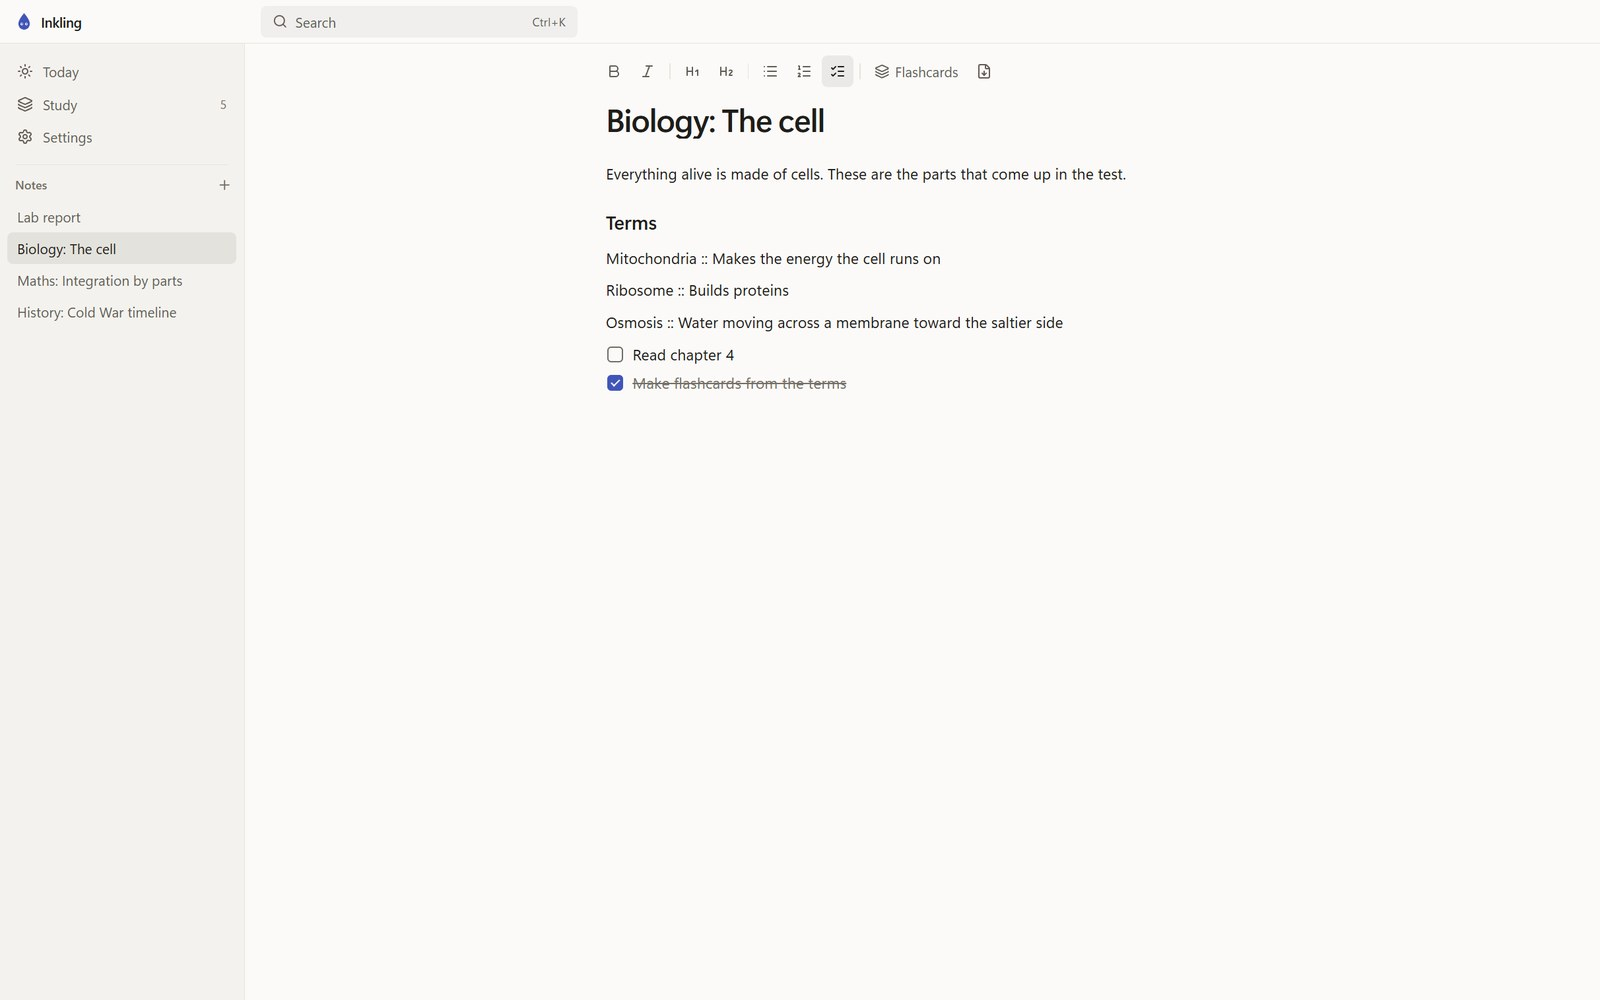
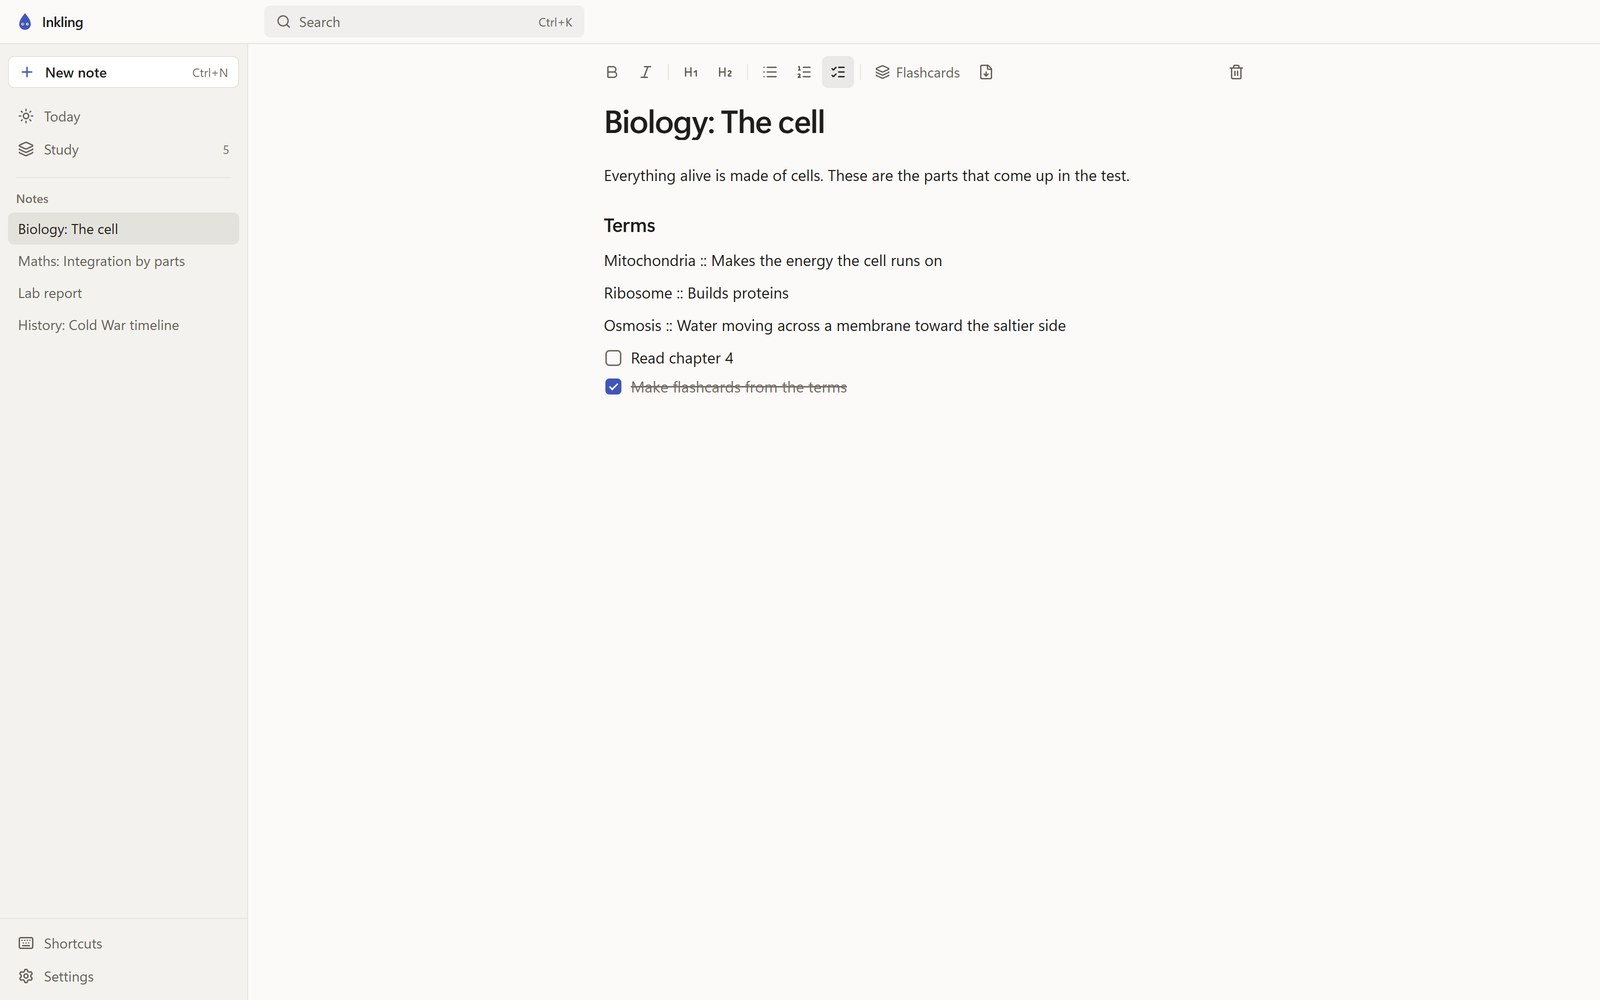
Show Inkling's new sidebar

diff --git a/src/constants/projects/inkling.ts b/src/constants/projects/inkling.ts
@@ -68,7 +68,7 @@ const en: LocalizedContent = {
     {
       heading: "A redesign that mostly took things out",
       body: [
-        "With v0.8.0 Inkling became a calmer app built around notes. The Tasks tab, Grades, Progress, the focus timer, the streak, the deck import and every setting except the theme went. To-dos from the old Tasks tab moved into a note of their own, and no note, card or review was lost. What is left is one sidebar with Today, Study, Settings and the notes, in a light and a dark theme.",
+        "With v0.8.0 Inkling became a calmer app built around notes. The Tasks tab, Grades, Progress, the focus timer, the streak, the deck import and every setting except the theme went. To-dos from the old Tasks tab moved into a note of their own, and no note, card or review was lost. What is left is one sidebar with New note, Today, Study, the notes, Shortcuts and Settings, in a light and a dark theme.",
         "An earlier pass, v0.6.0, had already taken the source from about 9.8k lines to 6.5k, and loading the editor only when a note opens took the startup bundle from 1881 kB to 819 kB.",
       ],
       figure: 3,
@@ -136,7 +136,7 @@ const de: LocalizedContent = {
     {
       heading: "Eine Überarbeitung, die vor allem Dinge herausnahm",
       body: [
-        "Mit v0.8.0 wurde Inkling zu einer ruhigeren App rund um Notizen. Der Tab Aufgaben, Noten, Fortschritt, der Fokus-Timer, die Serie, der Stapel-Import und jede Einstellung ausser dem Theme fielen weg. To-dos aus dem alten Tab Aufgaben zogen in eine eigene Notiz um, und keine Notiz, Karte oder Wiederholung ging verloren. Geblieben ist eine Seitenleiste mit Heute, Lernen, Einstellungen und den Notizen, in einem hellen und einem dunklen Theme.",
+        "Mit v0.8.0 wurde Inkling zu einer ruhigeren App rund um Notizen. Der Tab Aufgaben, Noten, Fortschritt, der Fokus-Timer, die Serie, der Stapel-Import und jede Einstellung ausser dem Theme fielen weg. To-dos aus dem alten Tab Aufgaben zogen in eine eigene Notiz um, und keine Notiz, Karte oder Wiederholung ging verloren. Geblieben ist eine Seitenleiste mit Neue Notiz, Heute, Lernen, den Notizen, Tastenkürzeln und Einstellungen, in einem hellen und einem dunklen Theme.",
         "Schon v0.6.0 hatte den Quellcode von etwa 9.8k auf 6.5k Zeilen gebracht, und weil der Editor erst beim Öffnen einer Notiz geladen wird, fiel das Start-Bundle von 1881 kB auf 819 kB.",
       ],
       figure: 3,
@@ -204,7 +204,7 @@ const fr: LocalizedContent = {
     {
       heading: "Une refonte qui a surtout retiré des choses",
       body: [
-        "Avec v0.8.0, Inkling est devenue une app plus calme, construite autour des notes. L'onglet Tâches, les notes scolaires, la page Progrès, le minuteur de concentration, la série, l'import de paquets et tous les réglages sauf le thème sont partis. Les tâches de l'ancien onglet ont rejoint une note à part, et aucune note, carte ni révision n'a été perdue. Il reste une barre latérale avec Aujourd'hui, Étude, Réglages et les notes, dans un thème clair et un thème sombre.",
+        "Avec v0.8.0, Inkling est devenue une app plus calme, construite autour des notes. L'onglet Tâches, les notes scolaires, la page Progrès, le minuteur de concentration, la série, l'import de paquets et tous les réglages sauf le thème sont partis. Les tâches de l'ancien onglet ont rejoint une note à part, et aucune note, carte ni révision n'a été perdue. Il reste une barre latérale avec Nouvelle note, Aujourd'hui, Étude, les notes, les raccourcis et les réglages, dans un thème clair et un thème sombre.",
         "Une passe plus ancienne, v0.6.0, avait déjà fait passer le code source d'environ 9,8k lignes à 6,5k, et charger l'éditeur seulement à l'ouverture d'une note avait fait passer le bundle de démarrage de 1881 kB à 819 kB.",
       ],
       figure: 3,
@@ -272,7 +272,7 @@ const zh: LocalizedContent = {
     {
       heading: "一次主要在做减法的改版",
       body: [
-        "从 v0.8.0 起，Inkling 变成了一个围绕笔记的、更安静的应用。“任务”标签、成绩、进度、专注计时器、连续天数、卡组导入，以及除主题以外的所有设置都拿掉了。旧“任务”标签里的待办搬进了一篇单独的笔记，没有丢掉任何笔记、卡片或复习记录。留下来的是一个侧栏，里面有“今天”、“学习”、“设置”和所有笔记，配一套浅色和一套深色主题。",
+        "从 v0.8.0 起，Inkling 变成了一个围绕笔记的、更安静的应用。“任务”标签、成绩、进度、专注计时器、连续天数、卡组导入，以及除主题以外的所有设置都拿掉了。旧“任务”标签里的待办搬进了一篇单独的笔记，没有丢掉任何笔记、卡片或复习记录。留下来的是一个侧栏，里面有“新建笔记”、“今天”、“学习”、所有笔记、“快捷键”和“设置”，配一套浅色和一套深色主题。",
         "更早的 v0.6.0 已经把源代码从大约 9.8k 行减到 6.5k 行，编辑器改成打开笔记时才加载，启动包从 1881 kB 降到 819 kB。",
       ],
       figure: 3,
